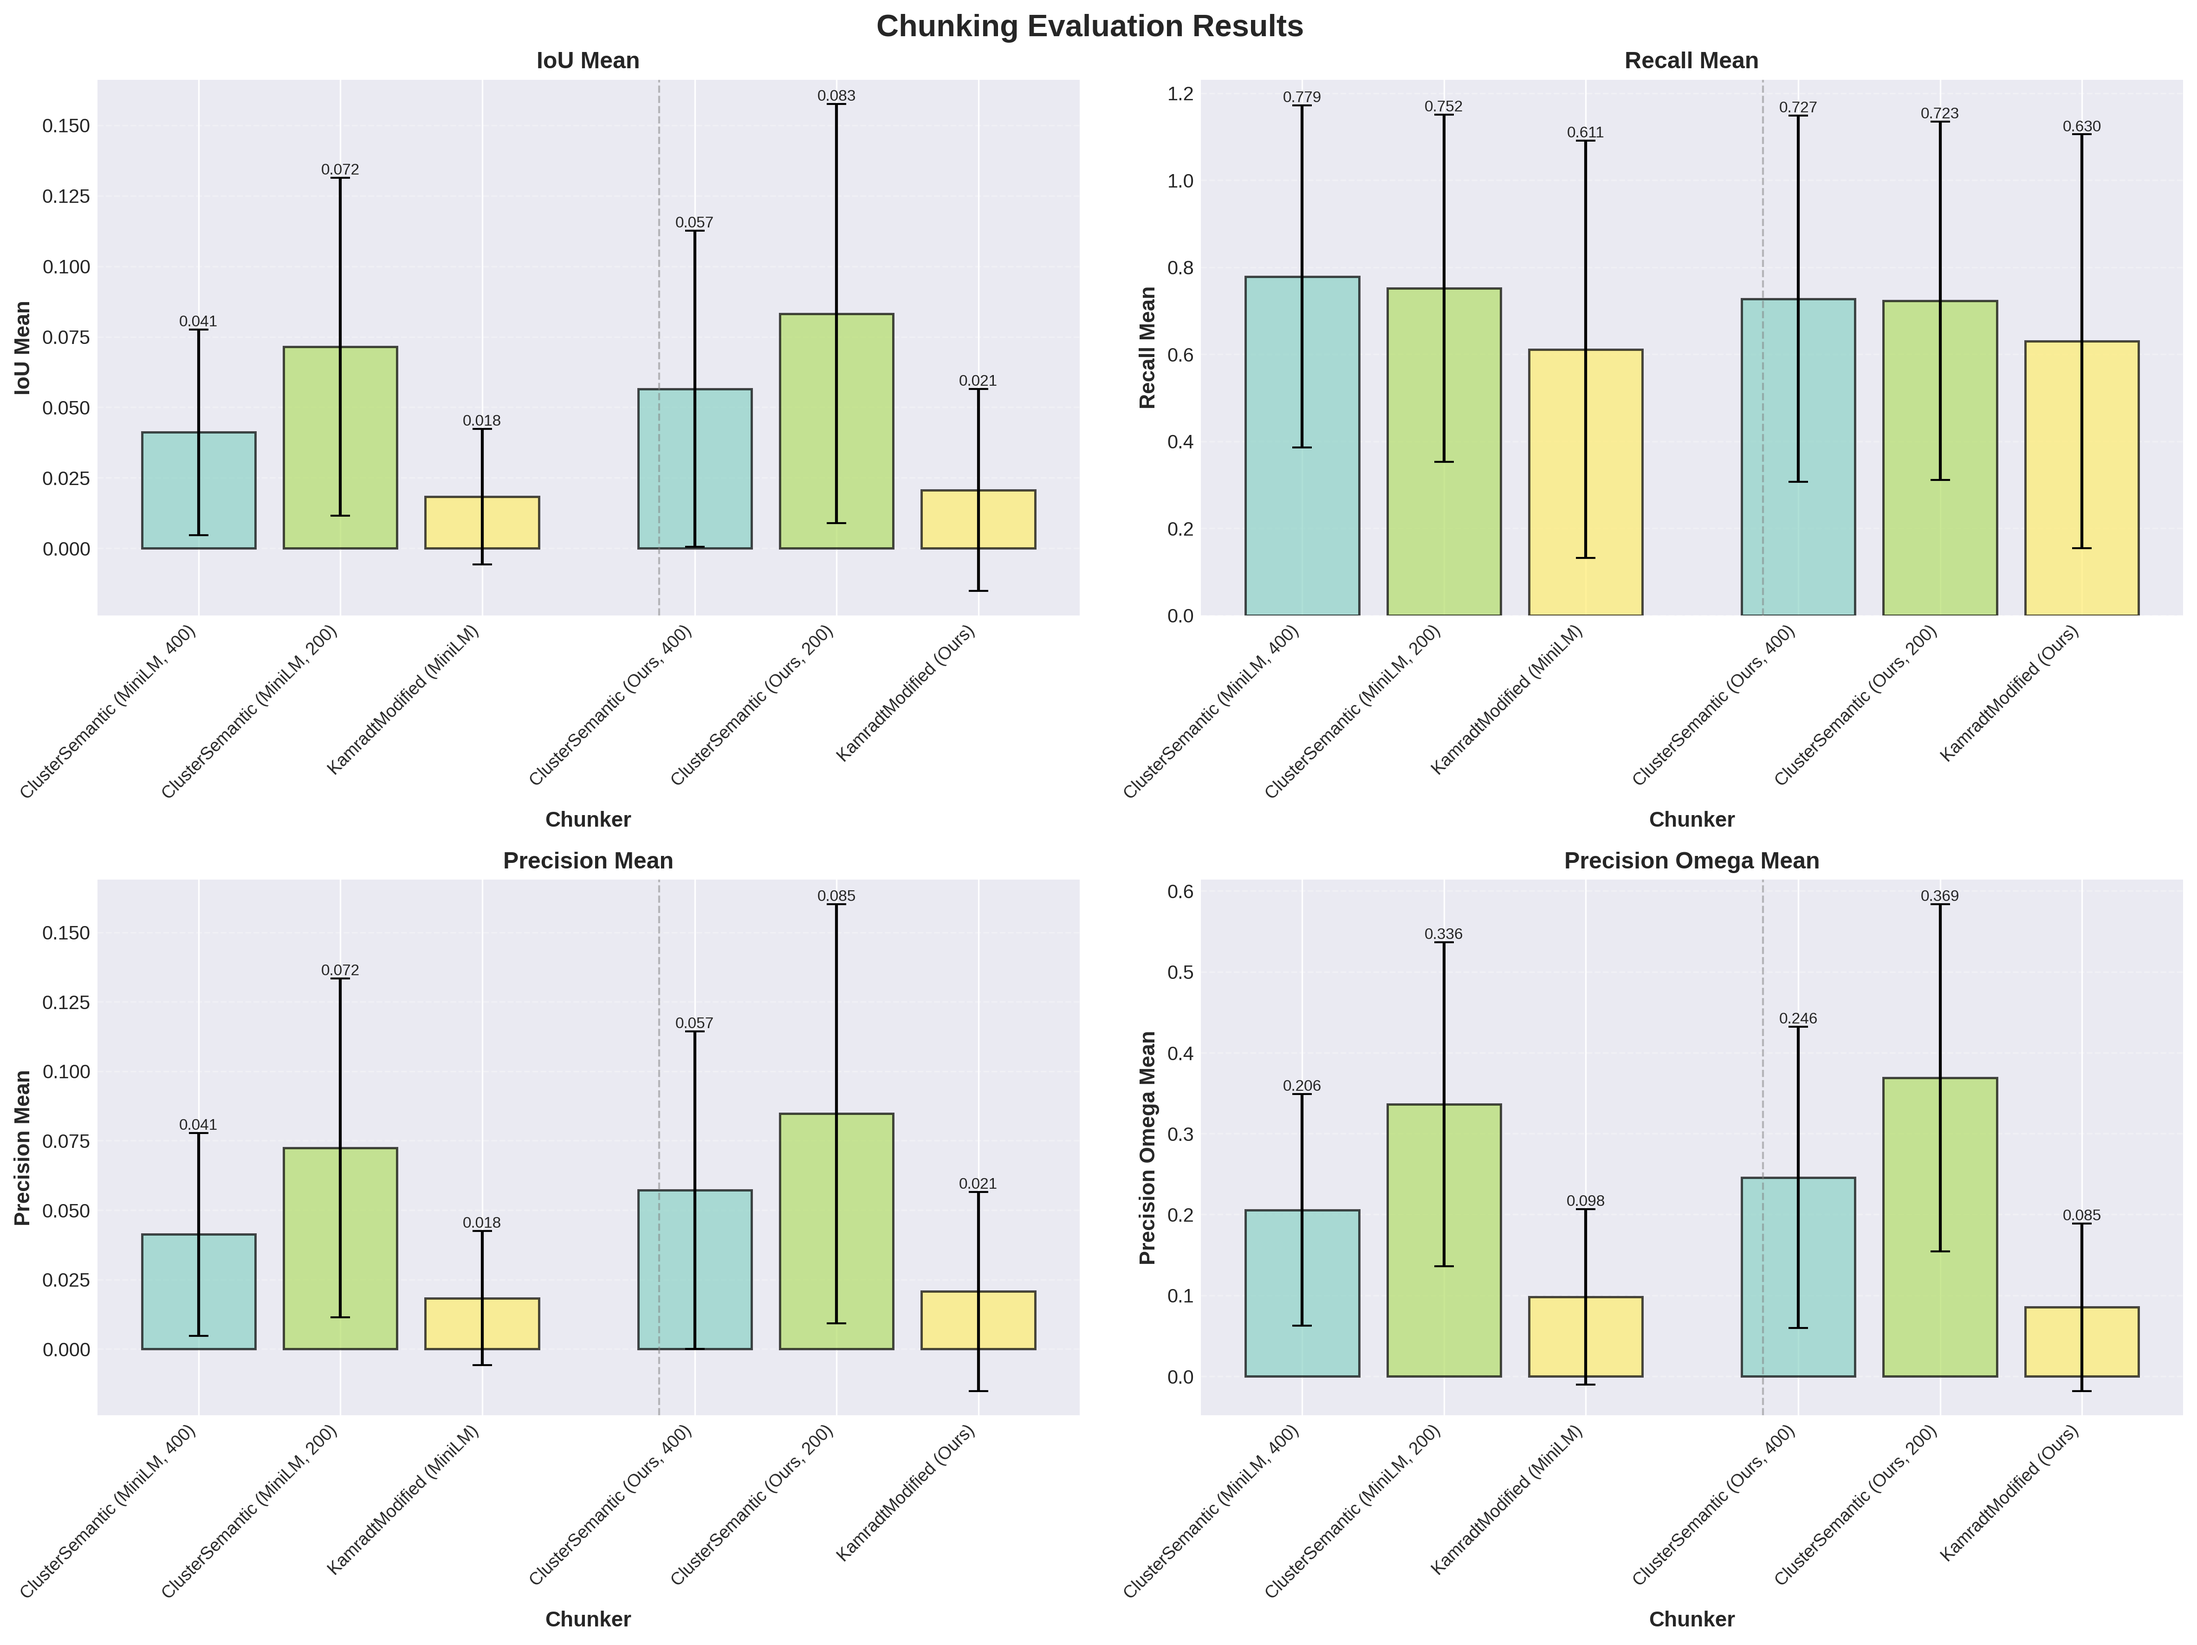
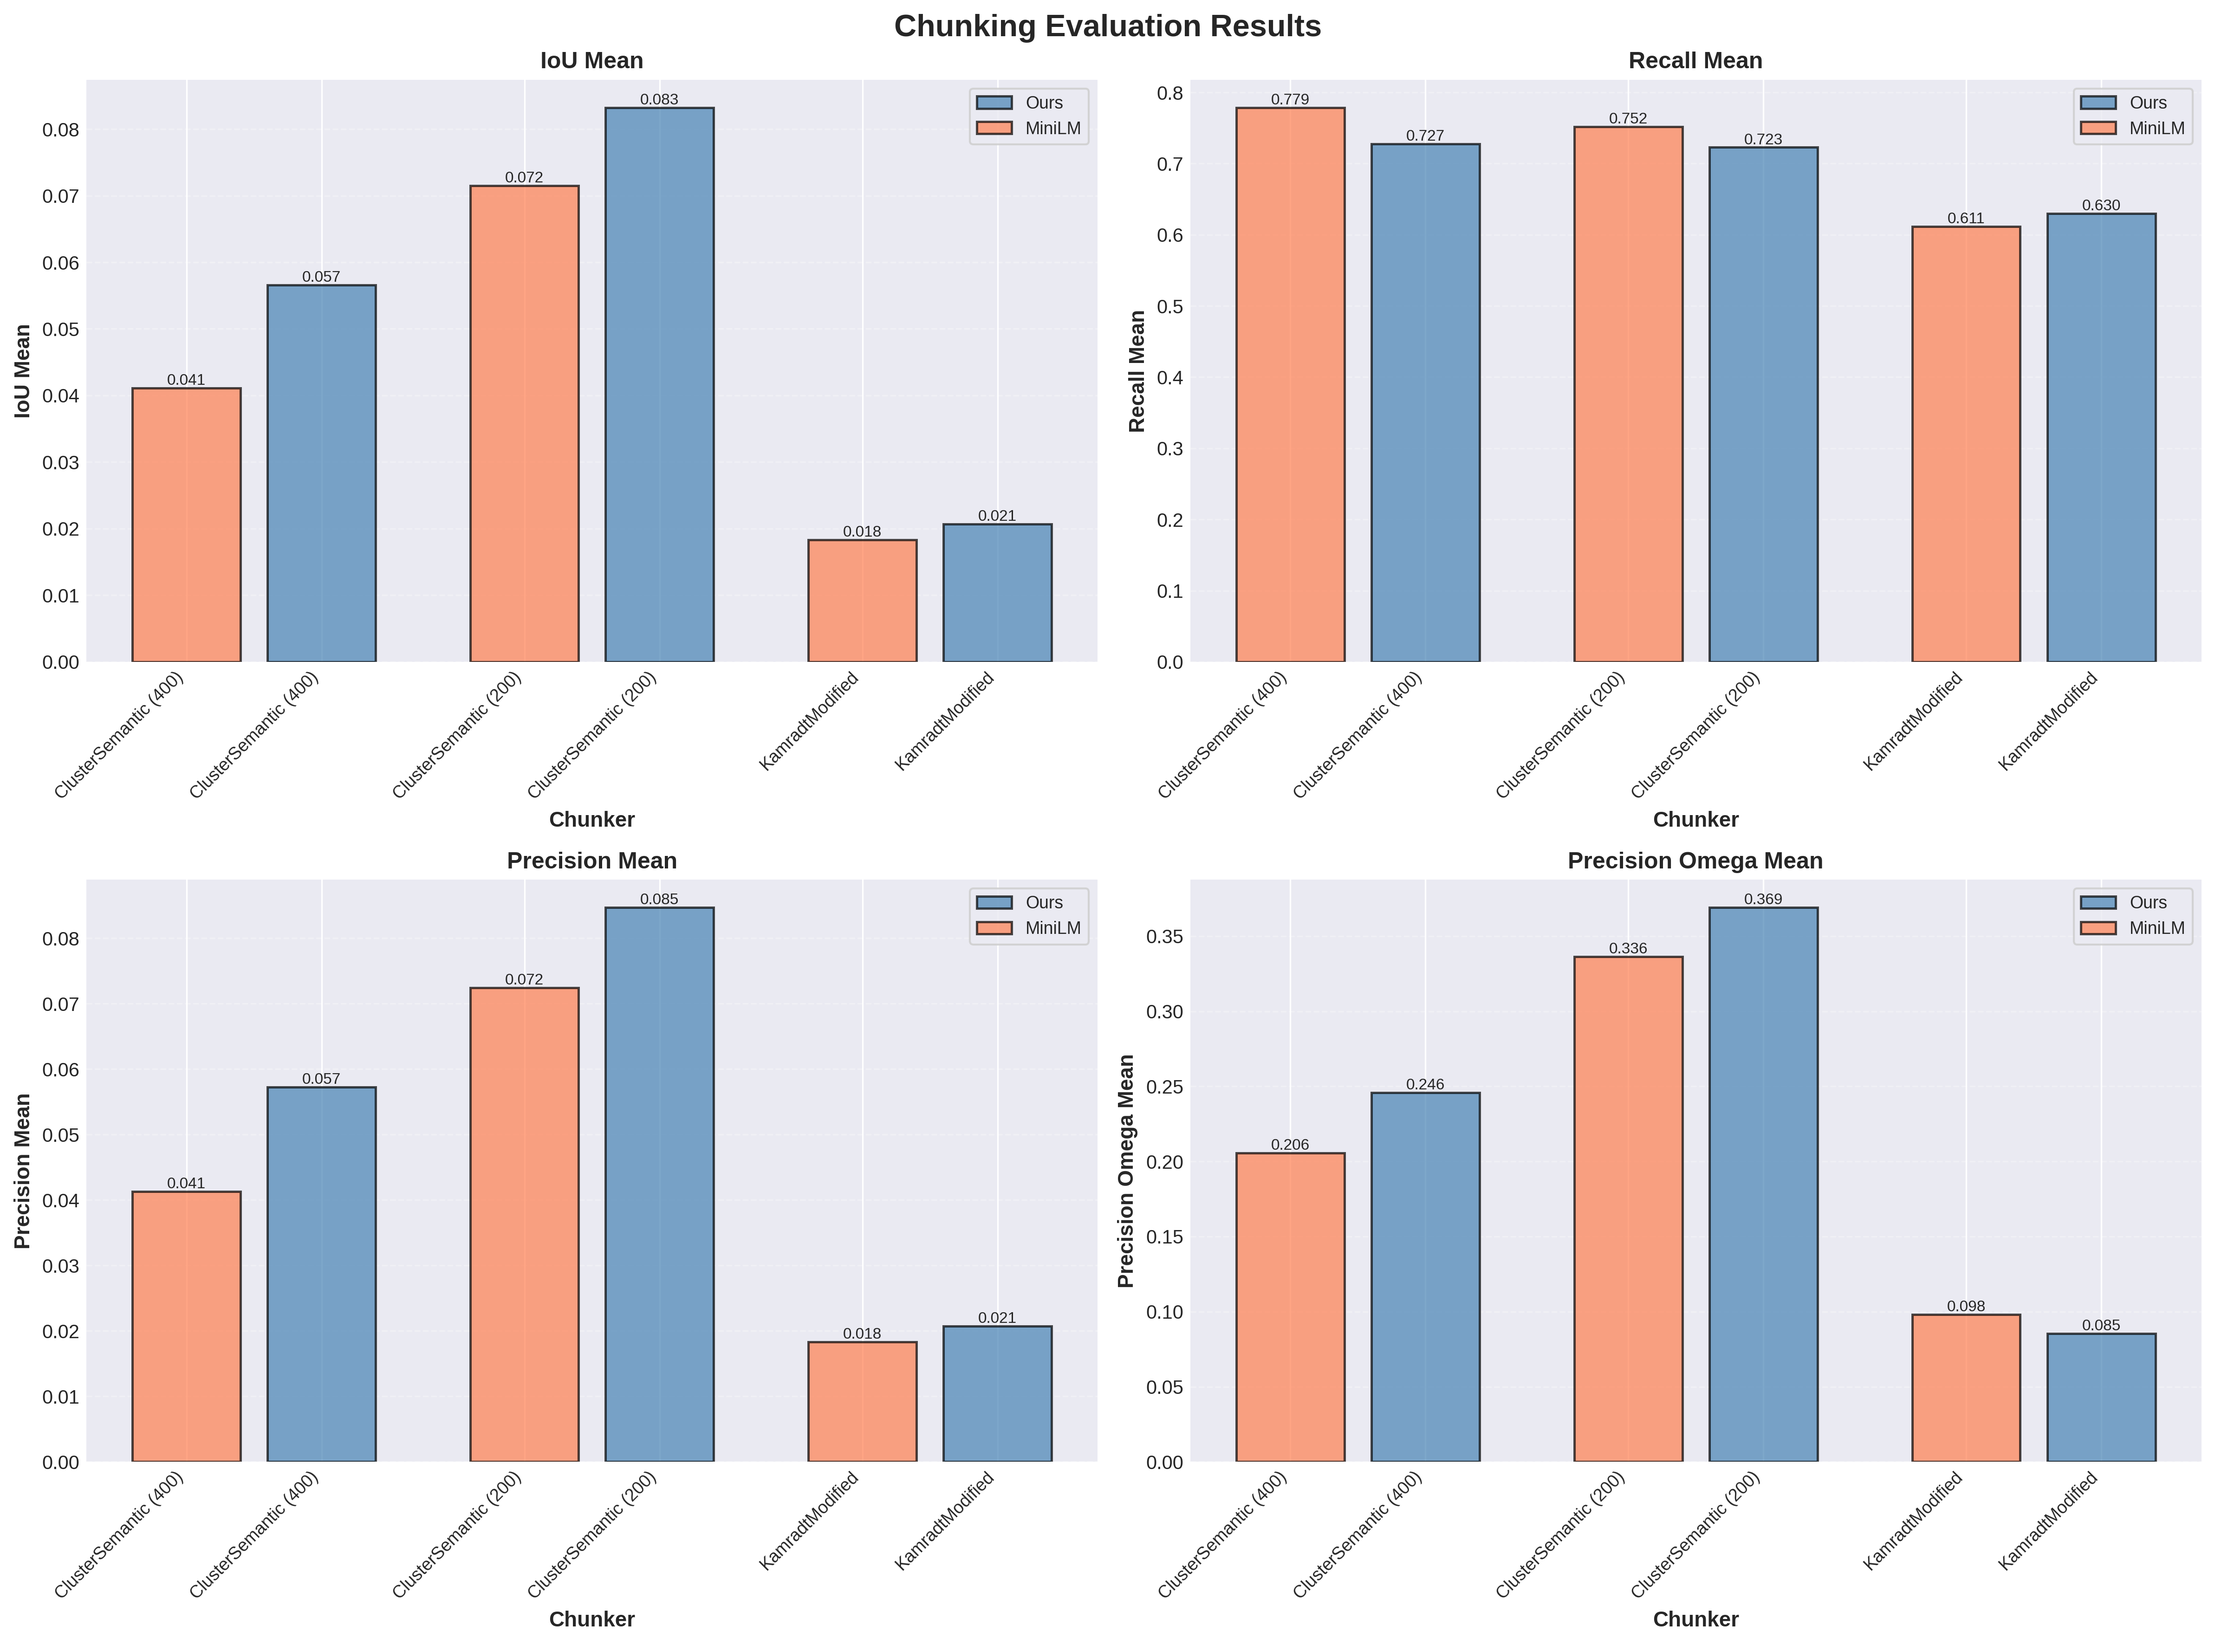
Update chunking results barplot image in chroma_db_evaluate

diff --git a/results/chroma_db_evaluate/plot_results.py b/results/chroma_db_evaluate/plot_results.py
@@ -5,6 +5,7 @@ Script to plot chunking evaluation results as bar charts.
 
 import pandas as pd
 import matplotlib.pyplot as plt
+from matplotlib.patches import Patch
 import numpy as np
 import os
 
@@ -12,129 +13,95 @@ import os
 csv_path = os.path.join(os.path.dirname(__file__), 'chunking_results.csv')
 df = pd.read_csv(csv_path)
 
-# Clean up chunker names for better readability
-def clean_chunker_name(name):
-    """Simplify chunker names for display."""
-    # Format: ClusterSemanticChunker_400 or ClusterSemanticChunker_400_trained
+def parse_chunker_name(name):
+    """Parse chunker name and return all relevant information."""
+    is_trained = name.endswith('_trained')
+    model_type = 'Ours' if is_trained else 'MiniLM'
+    
     if 'ClusterSemanticChunker' in name:
-        parts = name.replace('ClusterSemanticChunker_', '').split('_')
-        if len(parts) >= 1:
-            size = parts[0]  # e.g., "400" or "200"
-            if len(parts) > 1 and parts[1] == 'trained':
-                return f'ClusterSemantic (Ours, {size})'
-            else:
-                return f'ClusterSemantic (MiniLM, {size})'
-        return 'ClusterSemantic'
+        # Extract size from ClusterSemanticChunker_400 or ClusterSemanticChunker_400_trained
+        parts = name.replace('ClusterSemanticChunker_', '').replace('_trained', '').split('_')
+        size = int(parts[0]) if parts and parts[0].isdigit() else None
+        clustering_type = 'ClusterSemantic'
+        
+        clean_name = f'ClusterSemantic ({size})' if size else 'ClusterSemantic'
+        visual_group = f'ClusterSemantic_{size}' if size else 'ClusterSemantic'
+        sort_key = (0, -size if size else 0, 0 if model_type == 'MiniLM' else 1)
+        
     elif 'KamradtModifiedChunker' in name:
-        parts = name.replace('KamradtModifiedChunker_', '').split('_')
-        if len(parts) > 1 and parts[1] == 'trained':
-            return 'KamradtModified (Ours)'
-        else:
-            return 'KamradtModified (MiniLM)'
-    return name
-
-df['chunker_clean'] = df['chunker'].apply(clean_chunker_name)
-
-# Extract configuration identifier (ignoring model type) for consistent coloring
-def get_config_id(name):
-    """Extract configuration identifier that matches across model types."""
-    # Format: ClusterSemanticChunker_400 or ClusterSemanticChunker_400_trained
-    if 'ClusterSemanticChunker' in name:
-        parts = name.replace('ClusterSemanticChunker_', '').split('_')
-        if len(parts) >= 1:
-            size = parts[0]  # e.g., "400" or "200"
-            return f'ClusterSemantic_{size}'
-        return 'ClusterSemantic'
-    elif 'KamradtModifiedChunker' in name:
-        return 'KamradtModified'
-    return name
-
-df['config_id'] = df['chunker'].apply(get_config_id)
-
-# Extract model type for grouping
-def get_model_type(name):
-    """Extract model type (MiniLM vs Ours)."""
-    # Format: ..._trained means Ours, otherwise MiniLM
-    if name.endswith('_trained'):
-        return 'Ours'
+        clustering_type = 'KamradtModified'
+        size = None
+        clean_name = 'KamradtModified'
+        visual_group = 'KamradtModified'
+        sort_key = (1, 0 if model_type == 'MiniLM' else 1, 0)
+        
     else:
-        return 'MiniLM'
-
-df['model_type'] = df['chunker'].apply(get_model_type)
-
-# Group and reorder: MiniLM methods first, then Ours
-def get_group_order(name):
-    """Get grouping and ordering for bars."""
-    model_type = get_model_type(name)
+        clustering_type = 'Other'
+        size = None
+        clean_name = name
+        visual_group = 'Other'
+        sort_key = (2, 0, 0)
     
-    if model_type == 'MiniLM':
-        group = 0  # MiniLM group
-    else:  # Ours
-        group = 1  # Ours group
-    
-    # Within each group, order by configuration
-    if 'ClusterSemanticChunker' in name:
-        # Format: ClusterSemanticChunker_400 or ClusterSemanticChunker_400_trained
-        parts = name.replace('ClusterSemanticChunker_', '').split('_')
-        if len(parts) >= 1:
-            size = int(parts[0]) if parts[0].isdigit() else 0
-        else:
-            size = 0
-        return (group, 0, -size)  # ClusterSemantic first, then by size (larger first)
-    else:  # KamradtModified
-        return (group, 1, 0)  # KamradtModified second
+    return {
+        'chunker_clean': clean_name,
+        'clustering_type': clustering_type,
+        'model_type': model_type,
+        'size': size,
+        'visual_group': visual_group,
+        'sort_key': sort_key
+    }
 
-df['sort_key'] = df['chunker'].apply(get_group_order)
+# Parse all chunker names and add columns
+parsed_data = df['chunker'].apply(parse_chunker_name)
+parsed_df = pd.DataFrame(parsed_data.tolist())
+df = pd.concat([df, parsed_df], axis=1)
+
+# Sort by clustering type, size, and model type
 df = df.sort_values('sort_key').reset_index(drop=True)
 
-# Identify group boundaries for visual separation (by model type)
-df['model_group'] = df['model_type']
+# Color mapping by model type
+COLOR_MAP = {'Ours': 'steelblue', 'MiniLM': 'coral'}
 
-# Create color mapping for consistent colors across all plots
-# Use config_id so matching configurations get the same color
-unique_configs = df['config_id'].unique()
-# Use a colormap to assign colors
-colors = plt.cm.Set3(np.linspace(0, 1, len(unique_configs)))
-color_map = dict(zip(unique_configs, colors))
-
-# Set up the plotting style
+# Set up plotting
 plt.style.use('seaborn-v0_8-darkgrid' if 'seaborn-v0_8-darkgrid' in plt.style.available else 'default')
 fig, axes = plt.subplots(2, 2, figsize=(16, 12))
 fig.suptitle('Chunking Evaluation Results', fontsize=16, fontweight='bold')
 
-# Define metrics to plot
 metrics = [
-    ('iou_mean', 'iou_std', 'IoU Mean', axes[0, 0]),
-    ('recall_mean', 'recall_std', 'Recall Mean', axes[0, 1]),
-    ('precision_mean', 'precision_std', 'Precision Mean', axes[1, 0]),
-    ('precision_omega_mean', 'precision_omega_std', 'Precision Omega Mean', axes[1, 1]),
+    ('iou_mean', 'IoU Mean', axes[0, 0]),
+    ('recall_mean', 'Recall Mean', axes[0, 1]),
+    ('precision_mean', 'Precision Mean', axes[1, 0]),
+    ('precision_omega_mean', 'Precision Omega Mean', axes[1, 1]),
 ]
 
-# Plot each metric
-for mean_col, std_col, title, ax in metrics:
-    # Create x positions with spacing between groups
+def calculate_x_positions(visual_groups):
+    """Calculate x positions with spacing between visual groups."""
     x_positions = []
     current_pos = 0
-    group_boundaries = []
     prev_group = None
     
-    for i, group in enumerate(df['model_group']):
+    for group in visual_groups:
         if prev_group is not None and group != prev_group:
-            current_pos += 0.5  # Add spacing between groups
-            group_boundaries.append(current_pos - 0.25)
+            current_pos += 0.5
         x_positions.append(current_pos)
         current_pos += 1
         prev_group = group
     
-    x_pos = np.array(x_positions)
+    return np.array(x_positions)
+
+# Create legend elements
+legend_elements = [
+    Patch(facecolor=COLOR_MAP['Ours'], alpha=0.7, edgecolor='black', linewidth=1.2, label='Ours'),
+    Patch(facecolor=COLOR_MAP['MiniLM'], alpha=0.7, edgecolor='black', linewidth=1.2, label='MiniLM')
+]
+
+# Plot each metric
+for mean_col, title, ax in metrics:
+    x_pos = calculate_x_positions(df['visual_group'])
+    bar_colors = [COLOR_MAP[mt] for mt in df['model_type']]
     
-    bars = ax.bar(x_pos, df[mean_col], yerr=df[std_col], 
-                  capsize=5, alpha=0.7, edgecolor='black', linewidth=1.2,
-                  color=[color_map[config_id] for config_id in df['config_id']])
-    
-    # Add vertical lines to separate groups
-    for boundary in group_boundaries:
-        ax.axvline(x=boundary, color='gray', linestyle='--', linewidth=1, alpha=0.5)
+    bars = ax.bar(x_pos, df[mean_col], alpha=0.7, edgecolor='black', 
+                  linewidth=1.2, color=bar_colors)
     
     ax.set_xlabel('Chunker', fontsize=11, fontweight='bold')
     ax.set_ylabel(title, fontsize=11, fontweight='bold')
@@ -143,47 +110,16 @@ for mean_col, std_col, title, ax in metrics:
     ax.set_xticklabels(df['chunker_clean'], rotation=45, ha='right', fontsize=9)
     ax.grid(axis='y', alpha=0.3, linestyle='--')
     
-    # Add value labels on top of bars
-    for i, (bar, mean_val) in enumerate(zip(bars, df[mean_col])):
-        height = bar.get_height()
-        ax.text(bar.get_x() + bar.get_width()/2., height + df[std_col].iloc[i],
+    # Add legend to each subplot
+    ax.legend(handles=legend_elements, loc='upper right', fontsize=9, frameon=True)
+    
+    # Add value labels on bars
+    for bar, mean_val in zip(bars, df[mean_col]):
+        ax.text(bar.get_x() + bar.get_width()/2., bar.get_height(),
                 f'{mean_val:.3f}', ha='center', va='bottom', fontsize=8)
 
 plt.tight_layout()
-
-# Save the plot
 output_path = os.path.join(os.path.dirname(__file__), 'chunking_results_barplot.png')
 plt.savefig(output_path, dpi=300, bbox_inches='tight')
 print(f"Bar chart saved to: {output_path}")
-
-# Also create individual plots for each metric
-# output_dir = os.path.dirname(__file__)
-# for mean_col, std_col, title, _ in metrics:
-#     fig, ax = plt.subplots(figsize=(10, 6))
-#     x_pos = np.arange(len(df))
-#     bars = ax.bar(x_pos, df[mean_col], yerr=df[std_col], 
-#                   capsize=5, alpha=0.7, edgecolor='black', linewidth=1.2,
-#                   color=plt.cm.viridis(np.linspace(0, 1, len(df))))
-    
-#     ax.set_xlabel('Chunker', fontsize=12, fontweight='bold')
-#     ax.set_ylabel(title, fontsize=12, fontweight='bold')
-#     ax.set_title(f'{title} by Chunker', fontsize=14, fontweight='bold')
-#     ax.set_xticks(x_pos)
-#     ax.set_xticklabels(df['chunker_clean'], rotation=45, ha='right', fontsize=10)
-#     ax.grid(axis='y', alpha=0.3, linestyle='--')
-    
-#     # Add value labels on top of bars
-#     for i, (bar, mean_val) in enumerate(zip(bars, df[mean_col])):
-#         height = bar.get_height()
-#         ax.text(bar.get_x() + bar.get_width()/2., height + df[std_col].iloc[i],
-#                 f'{mean_val:.3f}', ha='center', va='bottom', fontsize=9)
-    
-#     plt.tight_layout()
-#     filename = title.lower().replace(' ', '_') + '_barplot.png'
-#     filepath = os.path.join(output_dir, filename)
-#     plt.savefig(filepath, dpi=300, bbox_inches='tight')
-#     plt.close()
-#     print(f"Individual plot saved to: {filepath}")
-
-# print("\nAll plots generated successfully!")
 
